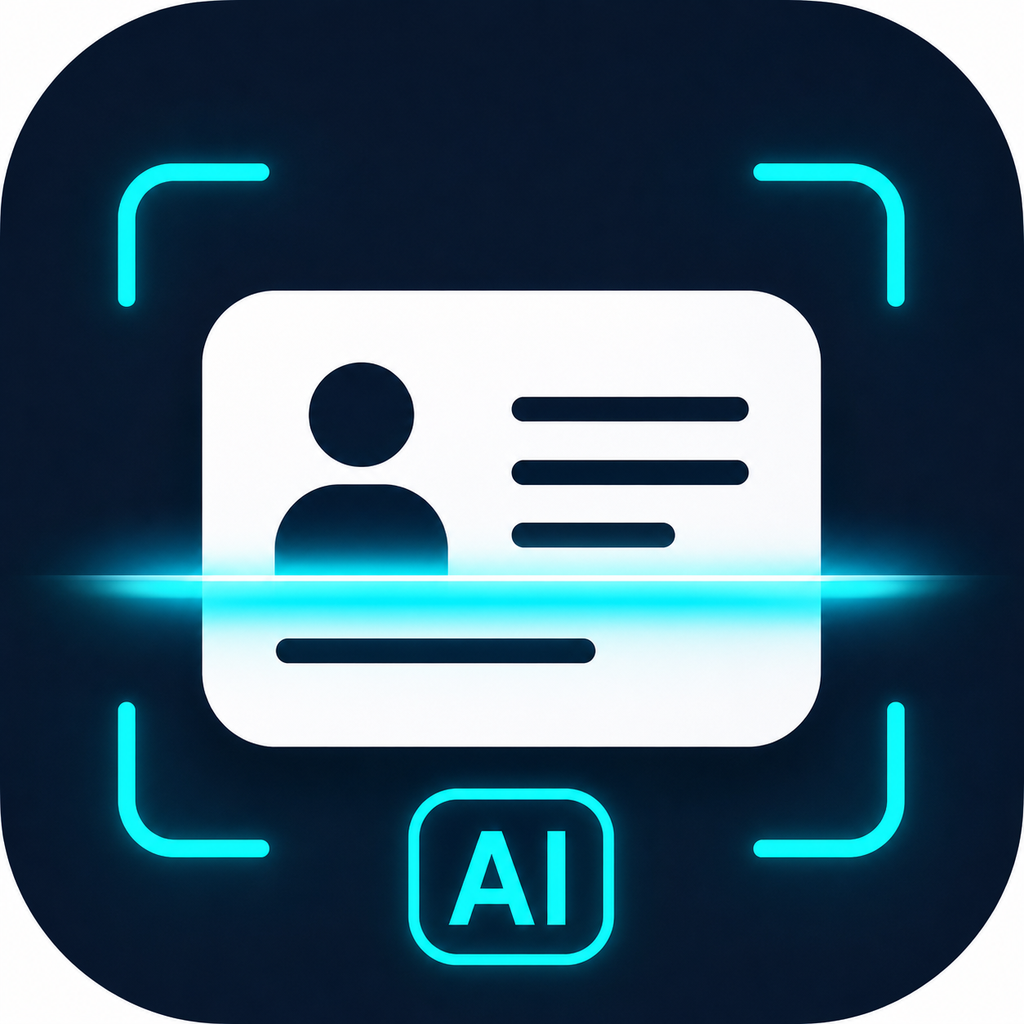
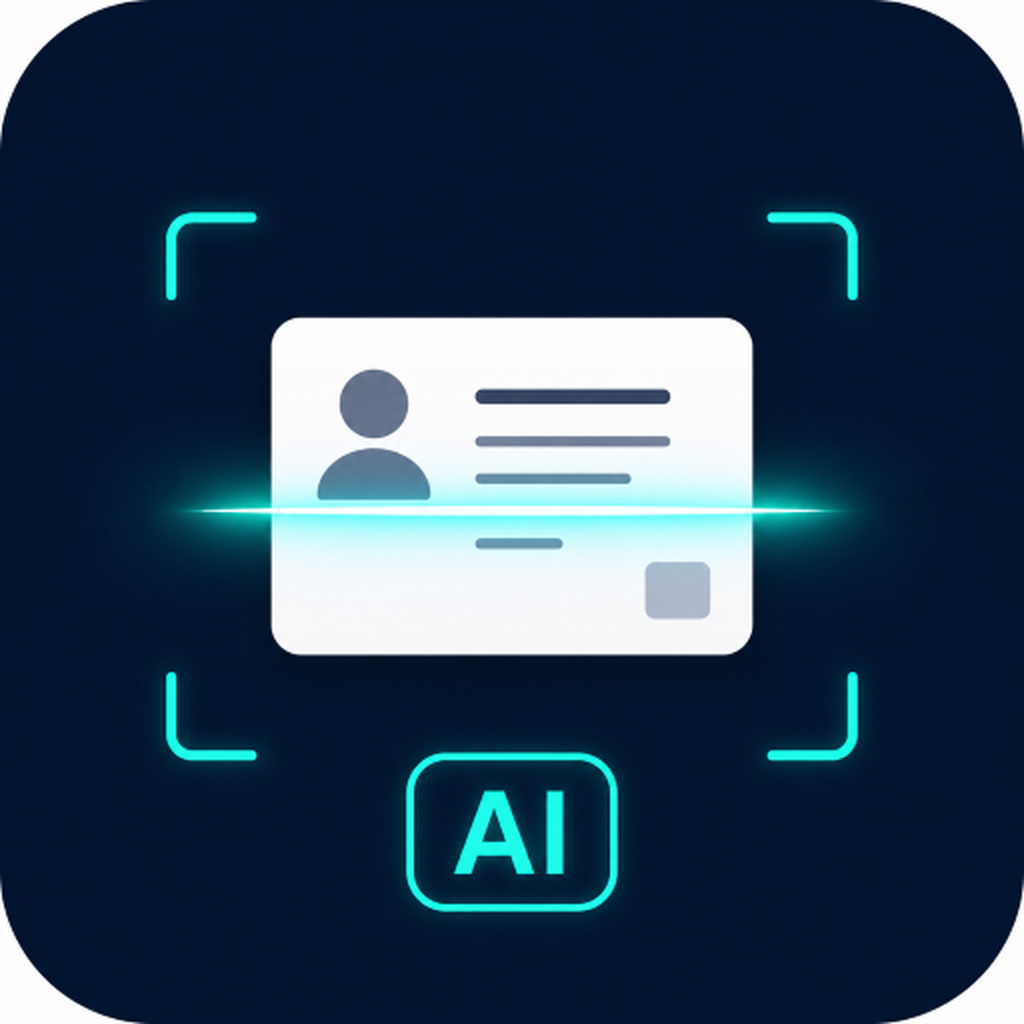
크래시 수정 - expo-iap 안전 로드

diff --git a/screens/CreditScreen.js b/screens/CreditScreen.js
@@ -4,10 +4,8 @@ import {
   StatusBar, SafeAreaView, ActivityIndicator, Alert, Platform,
 } from 'react-native';
 import { X, Zap, Check, Smartphone } from 'lucide-react-native';
-import { getProducts, requestPurchase, purchaseUpdatedListener, purchaseErrorListener, finishTransaction } from 'expo-iap';
 import { supabase } from '../supabase';
 
-// ── 상품 ID (Android/iOS 공통) ─────────────────────────────
 const PRODUCT_IDS = [
   'com.ssmshsoil.bizcardscanner.credits_30',
   'com.ssmshsoil.bizcardscanner.credits_100',
@@ -15,9 +13,9 @@ const PRODUCT_IDS = [
 ];
 
 const PLANS_DEFAULT = [
-  { id: 'com.ssmshsoil.bizcardscanner.credits_30',  qty: 30,  name: '라이트',   popular: false },
-  { id: 'com.ssmshsoil.bizcardscanner.credits_100', qty: 100, name: '스탠다드', popular: true },
-  { id: 'com.ssmshsoil.bizcardscanner.credits_200', qty: 200, name: '프로',     popular: false },
+  { id: PRODUCT_IDS[0], qty: 30,  name: '라이트',   price: '₩1,500', popular: false },
+  { id: PRODUCT_IDS[1], qty: 100, name: '스탠다드', price: '₩2,900', popular: true },
+  { id: PRODUCT_IDS[2], qty: 200, name: '프로',     price: '₩4,500', popular: false },
 ];
 
 const C = {
@@ -27,109 +25,104 @@ const C = {
   border: '#ECECE8', white: '#FFFFFF',
 };
 
-export default function CreditScreen({ user, credits, setCredits, onClose }) {
-  const [selected, setSelected]   = useState(PRODUCT_IDS[1]);
-  const [products, setProducts]   = useState([]);
-  const [loading, setLoading]     = useState(false);
-  const [loadingProducts, setLoadingProducts] = useState(true);
+// expo-iap 안전하게 로드
+let iapModule = null;
+try {
+  iapModule = require('expo-iap');
+} catch (e) {
+  console.log('expo-iap 로드 실패:', e);
+}
 
-  // ── 상품 로드 ─────────────────────────────────────────────
+export default function CreditScreen({ user, credits, setCredits, onClose }) {
+  const [selected, setSelected]           = useState(PRODUCT_IDS[1]);
+  const [products, setProducts]           = useState([]);
+  const [loading, setLoading]             = useState(false);
+  const [loadingProducts, setLoadingProducts] = useState(false);
+  const [iapAvailable, setIapAvailable]   = useState(false);
+
   useEffect(() => {
-    loadProducts();
-    const purchaseListener = purchaseUpdatedListener(handlePurchaseUpdate);
-    const errorListener    = purchaseErrorListener(handlePurchaseError);
-    return () => {
-      purchaseListener.remove();
-      errorListener.remove();
-    };
+    initIAP();
+    return () => cleanupIAP();
   }, []);
 
-  const loadProducts = async () => {
+  let purchaseListener = null;
+  let errorListener    = null;
+
+  const initIAP = async () => {
+    if (!iapModule) return;
     try {
       setLoadingProducts(true);
+      const { getProducts, purchaseUpdatedListener, purchaseErrorListener } = iapModule;
+      purchaseListener = purchaseUpdatedListener(handlePurchaseUpdate);
+      errorListener    = purchaseErrorListener(handlePurchaseError);
       const result = await getProducts({ skus: PRODUCT_IDS });
       if (result && result.length > 0) {
         setProducts(result);
+        setIapAvailable(true);
       }
     } catch (e) {
-      console.log('상품 로드 오류:', e);
+      console.log('IAP 초기화 오류 (정상):', e.message);
+      setIapAvailable(false);
     } finally {
       setLoadingProducts(false);
     }
   };
 
-  // ── 구매 성공 처리 ────────────────────────────────────────
+  const cleanupIAP = () => {
+    try { purchaseListener?.remove(); errorListener?.remove(); } catch (e) {}
+  };
+
   const handlePurchaseUpdate = async (purchase) => {
     if (!purchase) return;
     setLoading(true);
     try {
-      // 서버 검증 요청
       const { data, error } = await supabase.functions.invoke('verify-purchase', {
         body: {
           platform: Platform.OS,
           productId: purchase.productId,
-          // Android: purchaseToken, iOS: transactionId + receipt
           purchaseToken: purchase.purchaseToken || null,
           transactionId: purchase.transactionId || null,
           transactionReceipt: purchase.transactionReceipt || null,
           userId: user.id,
         },
       });
-
-      if (error || !data?.success) {
-        throw new Error(error?.message || '구매 검증 실패');
-      }
-
-      // 거래 완료 처리 (중복 방지)
-      await finishTransaction({ purchase, isConsumable: true });
-
-      // 크레딧 업데이트
+      if (error || !data?.success) throw new Error(error?.message || '구매 검증 실패');
+      try { await iapModule?.finishTransaction({ purchase, isConsumable: true }); } catch (e) {}
       const qty = data.credits;
       const newCredits = credits + qty;
       await supabase.from('user_credits')
         .update({ credits: newCredits, updated_at: new Date().toISOString() })
         .eq('user_id', user.id);
       setCredits(newCredits);
-
-      Alert.alert('충전 완료! 🎉', qty + '장이 충전되었습니다.', [
-        { text: '확인', onPress: onClose }
-      ]);
+      Alert.alert('충전 완료! 🎉', qty + '장이 충전되었습니다.', [{ text: '확인', onPress: onClose }]);
     } catch (e) {
       Alert.alert('오류', e.message || '구매 처리 중 오류가 발생했습니다.');
-    } finally {
-      setLoading(false);
-    }
+    } finally { setLoading(false); }
   };
 
   const handlePurchaseError = (error) => {
-    if (error.code !== 'E_USER_CANCELLED') {
-      Alert.alert('결제 오류', error.message);
-    }
+    if (error.code !== 'E_USER_CANCELLED') Alert.alert('결제 오류', error.message);
     setLoading(false);
   };
 
-  // ── 구매 시작 ─────────────────────────────────────────────
   const handlePurchase = async () => {
     if (!selected || loading) return;
+    if (!iapAvailable || !iapModule) {
+      Alert.alert('결제 준비 중', '인앱 결제가 아직 준비되지 않았습니다.\n사업자 등록 후 활성화됩니다.\n\n문의: [email redacted]');
+      return;
+    }
     setLoading(true);
     try {
-      await requestPurchase({ sku: selected });
+      await iapModule.requestPurchase({ sku: selected });
     } catch (e) {
-      if (e.code !== 'E_USER_CANCELLED') {
-        Alert.alert('결제 오류', e.message);
-      }
+      if (e.code !== 'E_USER_CANCELLED') Alert.alert('결제 오류', e.message);
       setLoading(false);
     }
   };
 
-  // ── 상품 정보 병합 ────────────────────────────────────────
   const getMergedPlan = (planDefault) => {
     const product = products.find(p => p.productId === planDefault.id);
-    return {
-      ...planDefault,
-      price: product?.localizedPrice || '...',
-      title: product?.title || planDefault.name,
-    };
+    return { ...planDefault, price: product?.localizedPrice || planDefault.price };
   };
 
   const selectedPlan = PLANS_DEFAULT.find(p => p.id === selected);
@@ -137,8 +130,6 @@ export default function CreditScreen({ user, credits, setCredits, onClose }) {
   return (
     <SafeAreaView style={styles.safe}>
       <StatusBar barStyle="light-content" backgroundColor={C.navy} />
-
-      {/* 헤더 */}
       <View style={styles.header}>
         <View style={{ flex: 1 }}>
           <Text style={styles.headerTitle}>크레딧 충전</Text>
@@ -150,8 +141,6 @@ export default function CreditScreen({ user, credits, setCredits, onClose }) {
       </View>
 
       <ScrollView style={styles.body} contentContainerStyle={{ padding: 18, paddingBottom: 40 }} showsVerticalScrollIndicator={false}>
-
-        {/* 현재 크레딧 */}
         <View style={styles.currentBox}>
           <View style={styles.zapCircle}><Zap size={16} color={C.teal} fill={C.teal} /></View>
           <Text style={styles.currentLabel}>현재 크레딧</Text>
@@ -161,7 +150,6 @@ export default function CreditScreen({ user, credits, setCredits, onClose }) {
 
         <Text style={styles.sectionLabel}>플랜 선택</Text>
 
-        {/* 플랜 카드 */}
         {loadingProducts ? (
           <View style={styles.loadingBox}>
             <ActivityIndicator color={C.teal} />
@@ -171,15 +159,13 @@ export default function CreditScreen({ user, credits, setCredits, onClose }) {
           <View style={{ gap: 10 }}>
             {PLANS_DEFAULT.map(planDefault => {
               const plan = getMergedPlan(planDefault);
-              const sel = plan.id === selected;
+              const sel  = plan.id === selected;
               return (
                 <TouchableOpacity key={plan.id} activeOpacity={0.85}
                   onPress={() => setSelected(plan.id)}
                   style={[styles.planCard, sel && styles.planCardSel]}>
                   {plan.popular && (
-                    <View style={styles.popularBadge}>
-                      <Text style={styles.popularText}>인기</Text>
-                    </View>
+                    <View style={styles.popularBadge}><Text style={styles.popularText}>인기</Text></View>
                   )}
                   <View style={[styles.radio, sel && { backgroundColor: C.teal, borderColor: C.teal }]}>
                     {sel && <View style={styles.radioInner} />}
@@ -200,7 +186,6 @@ export default function CreditScreen({ user, credits, setCredits, onClose }) {
           </View>
         )}
 
-        {/* 안내 박스 */}
         <View style={styles.infoBox}>
           {[
             '크레딧 유효기간 없음 (영구 사용)',
@@ -215,11 +200,9 @@ export default function CreditScreen({ user, credits, setCredits, onClose }) {
           ))}
         </View>
 
-        {/* 결제 버튼 */}
         <TouchableOpacity activeOpacity={0.9}
-          style={[styles.payBtn, (loading || loadingProducts) && { opacity: 0.6 }]}
-          onPress={handlePurchase}
-          disabled={loading || loadingProducts}>
+          style={[styles.payBtn, loading && { opacity: 0.6 }]}
+          onPress={handlePurchase} disabled={loading}>
           {loading
             ? <ActivityIndicator color="#FFFFFF" size="small" />
             : <Smartphone size={20} color="#FFFFFF" strokeWidth={2.2} />}
@@ -237,13 +220,10 @@ export default function CreditScreen({ user, credits, setCredits, onClose }) {
             : '🍎 App Store 결제 · 국가별 통화 자동 적용'}
         </Text>
 
-        {/* 환불 안내 */}
         <TouchableOpacity style={styles.refundBtn} onPress={() =>
-          Alert.alert('환불 정책',
-            '미사용 크레딧에 한해 구매일로부터 7일 이내 전액 환불 가능합니다.\n1장이라도 사용한 경우 환불이 불가합니다.\n\n환불 문의: [email redacted]')}>
+          Alert.alert('환불 정책', '미사용 크레딧에 한해 구매일로부터 7일 이내 전액 환불 가능합니다.\n1장이라도 사용한 경우 환불이 불가합니다.\n\n환불 문의: [email redacted]')}>
           <Text style={styles.refundText}>환불 정책 보기</Text>
         </TouchableOpacity>
-
       </ScrollView>
     </SafeAreaView>
   );